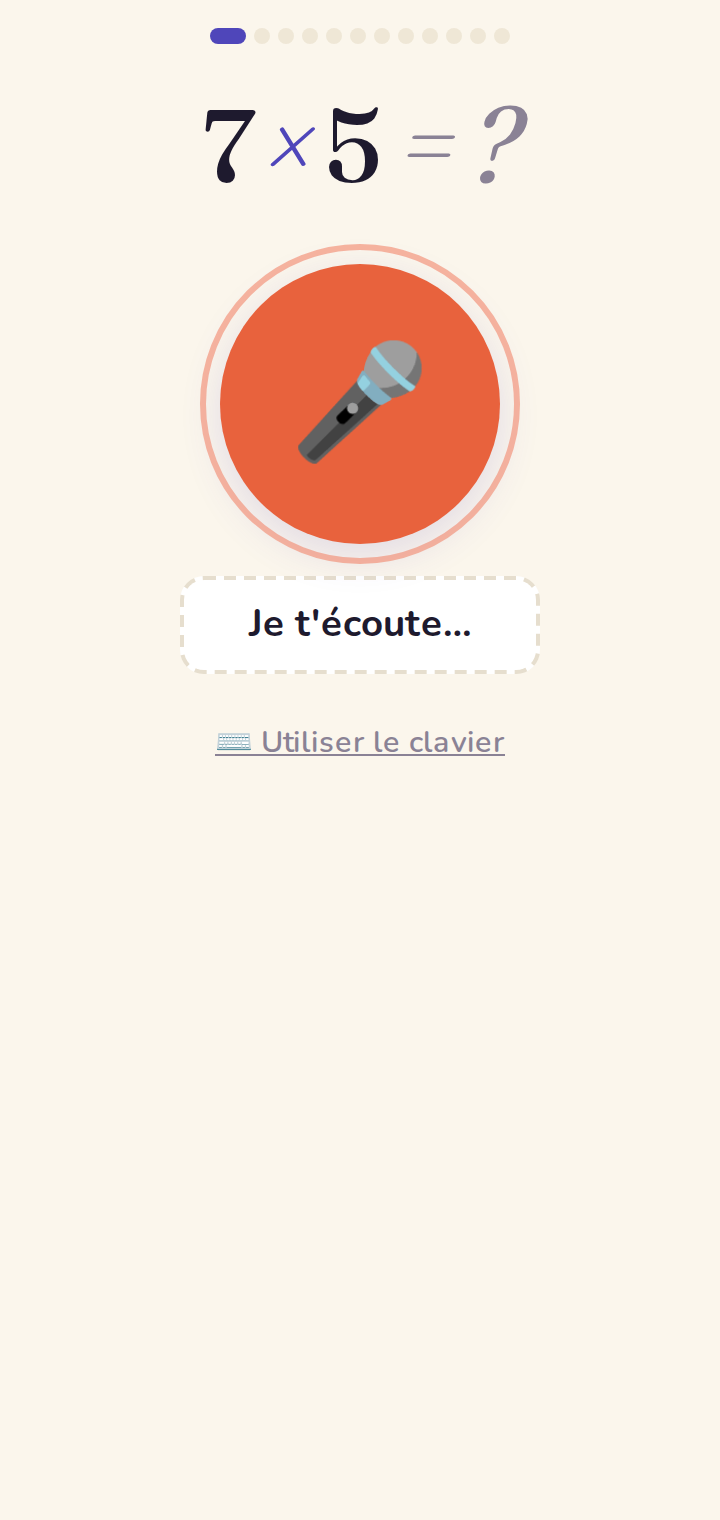
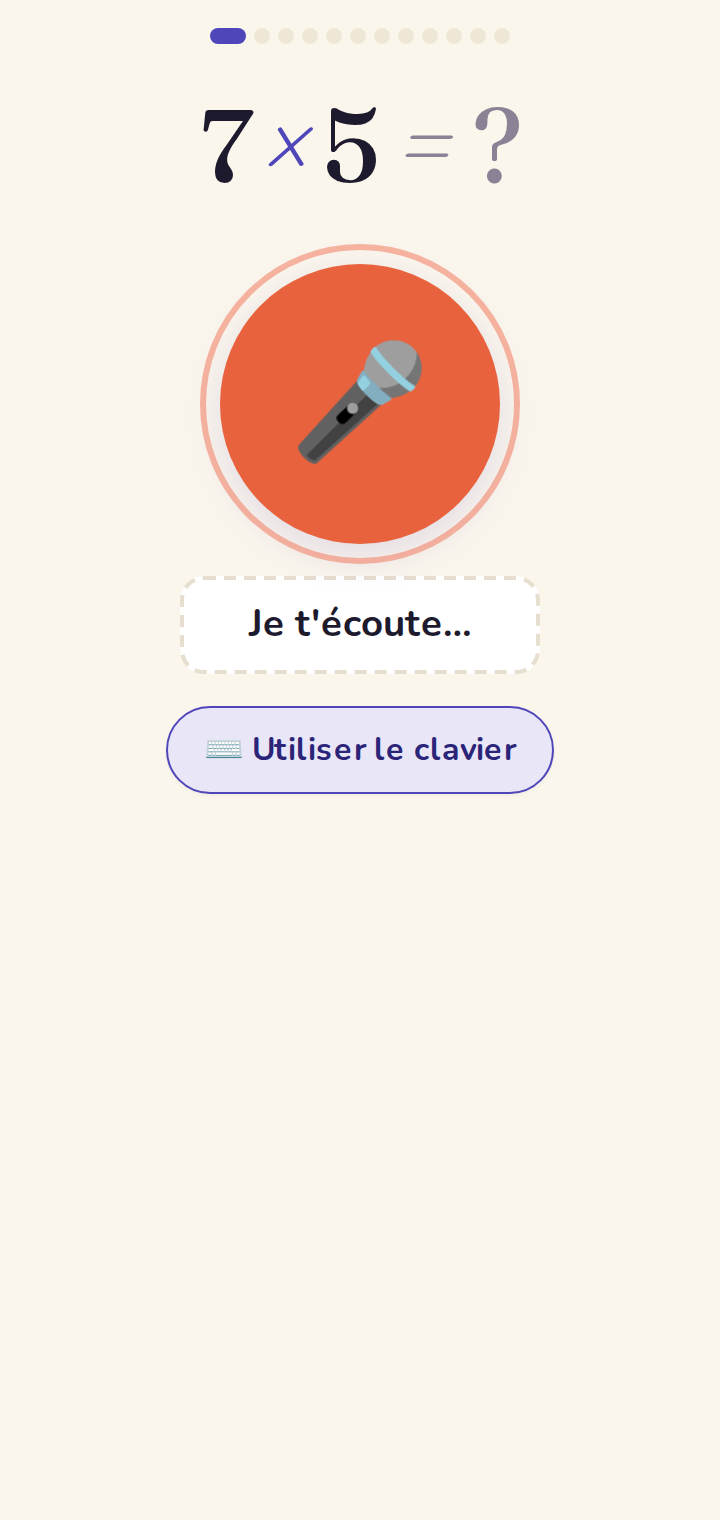
deploy: main @ fb72b231f3d565b519d4fefcdd64a0536ae2737d fb72b231f3d565b519d4fefcdd64a0536ae2737d

diff --git a/styles.css b/styles.css
@@ -3969,7 +3969,6 @@ input, select, textarea {
 
 .session-question-text .placeholder {
   color: var(--ink-muted);
-  font-style: italic;
   font-weight: 400;
   margin-left: 10px;
 }
@@ -3982,20 +3981,29 @@ input, select, textarea {
   justify-content: flex-start;
   width: 100%;
   padding-top: 4px;
-  gap: 8px;
+  gap: 28px;
 }
 
 .session-input-switch {
-  background: transparent;
-  border: none;
+  display: inline-flex;
+  align-items: center;
+  gap: 8px;
+  background: var(--indigo-soft);
+  border: 1.5px solid var(--indigo);
   font-family: var(--sans);
-  font-size: 0.95rem;
-  font-weight: 600;
-  color: var(--ink-muted);
-  padding: 8px 14px;
-  border-radius: 10px;
+  font-size: 1rem;
+  font-weight: 700;
+  color: var(--indigo-ink);
+  padding: 10px 18px;
+  border-radius: 999px;
   cursor: pointer;
-  text-decoration: underline;
+  box-shadow: var(--shadow-sm);
+  -webkit-tap-highlight-color: transparent;
+  transition: transform 0.12s ease, background 0.12s ease;
+}
+
+.session-input-switch:active:not(:disabled) {
+  transform: translateY(1px);
 }
 
 .session-input-switch:disabled {

diff --git a/guide/index.html b/guide/index.html
@@ -401,12 +401,12 @@
           </figure>
 
           <figure class="shot">
-            <img src="screenshots/07-session-question.png?v=a8e9f204" alt="Question standard et pavé numérique." width="360" height="760" loading="lazy" />
+            <img src="screenshots/07-session-question.png?v=1d9eb750" alt="Question standard et pavé numérique." width="360" height="760" loading="lazy" />
             <figcaption>Question standard et pavé numérique.</figcaption>
           </figure>
 
           <figure class="shot">
-            <img src="screenshots/07b-session-voice.png?v=a0335cfe" alt="Mode micro — l'enfant énonce sa réponse à voix haute. Bascule possible à tout moment." width="360" height="760" loading="lazy" />
+            <img src="screenshots/07b-session-voice.png?v=e6ab4787" alt="Mode micro — l'enfant énonce sa réponse à voix haute. Bascule possible à tout moment." width="360" height="760" loading="lazy" />
             <figcaption>Mode micro — l'enfant énonce sa réponse à voix haute. Bascule possible à tout moment.</figcaption>
           </figure>
 
@@ -504,7 +504,7 @@
     <a href="https://github.com/isc/multiplix">code source</a>
   </p>
   <p>
-    Guide généré automatiquement le 2026-05-10.
+    Guide généré automatiquement le 2026-05-13.
   </p>
 </footer>
 </body>

diff --git a/src/lib/feedback.js b/src/lib/feedback.js
@@ -1,3 +1,3 @@
-const r="https://cseyzitvqvyuabmenntb.supabase.co",a="sb_publishable_WKCgKA1DIyj8o1eG4_Pciw_ZoujAiqj",c=!!(r&&a);function m(t){const e={app_version:"20260510195834",user_agent:navigator.userAgent,locale:navigator.language,viewport:{w:window.innerWidth,h:window.innerHeight}};if(t){const n=t.facts.filter(i=>i.box>=4).length,s=new Date(t.startDate).getTime(),o=Math.max(0,Math.floor((Date.now()-s)/864e5));e.stats={total_sessions:t.totalSessions,facts_mastered:n,facts_total:t.facts.length,current_streak:t.currentStreak,days_since_start:o}}return e}async function l(t){if(!c)throw new Error("Feedback d\xE9sactiv\xE9 (configuration manquante)");const e=await fetch(`${r}/rest/v1/feedback`,{method:"POST",headers:{apikey:a,Authorization:`Bearer ${a}`,"Content-Type":"application/json",Prefer:"return=minimal"},body:JSON.stringify({message:t.message,email:t.email&&t.email.trim()?t.email.trim():null,context:t.context})});if(!e.ok){const n=await e.text().catch(()=>"");throw new Error(n||`HTTP ${e.status}`)}}export{m as buildContext,c as feedbackEnabled,l as submitFeedback};
+const r="https://cseyzitvqvyuabmenntb.supabase.co",a="sb_publishable_WKCgKA1DIyj8o1eG4_Pciw_ZoujAiqj",c=!!(r&&a);function m(t){const e={app_version:"20260513185809",user_agent:navigator.userAgent,locale:navigator.language,viewport:{w:window.innerWidth,h:window.innerHeight}};if(t){const n=t.facts.filter(i=>i.box>=4).length,s=new Date(t.startDate).getTime(),o=Math.max(0,Math.floor((Date.now()-s)/864e5));e.stats={total_sessions:t.totalSessions,facts_mastered:n,facts_total:t.facts.length,current_streak:t.currentStreak,days_since_start:o}}return e}async function l(t){if(!c)throw new Error("Feedback d\xE9sactiv\xE9 (configuration manquante)");const e=await fetch(`${r}/rest/v1/feedback`,{method:"POST",headers:{apikey:a,Authorization:`Bearer ${a}`,"Content-Type":"application/json",Prefer:"return=minimal"},body:JSON.stringify({message:t.message,email:t.email&&t.email.trim()?t.email.trim():null,context:t.context})});if(!e.ok){const n=await e.text().catch(()=>"");throw new Error(n||`HTTP ${e.status}`)}}export{m as buildContext,c as feedbackEnabled,l as submitFeedback};
 
 //# sourceMappingURL=feedback.js.map

diff --git a/src/screens/ParentDashboard.js b/src/screens/ParentDashboard.js
@@ -1,3 +1,3 @@
-import{jsx as e,jsxs as a}from"preact/jsx-runtime";import{useState as u,useMemo as h,Fragment as B}from"react";import{getFactKey as q}from"../lib/facts.js";import{getActiveStreak as V}from"../lib/streak.js";import{todayISO as z}from"../lib/utils.js";import G from"../components/ProgressGrid.js";import J from"../components/BackChevron.js";import O from"../components/FeedbackModal.js";const T=[0,25,50,75,100];function j({profile:n,onBack:F,onExport:L,onImport:P,onShowPrivacy:$,onShowChangelog:w}){const[b,N]=u(!1),[p,g]=u(""),[H,f]=u(!1),{boxCounts:I,maxBoxCount:E,hardFacts:x}=h(()=>{const t=[0,0,0,0,0,0];for(const s of n.facts)s.introduced?t[s.box]++:t[0]++;const r=n.facts.filter(s=>s.introduced).map(s=>({...s,errorCount:s.history.filter(c=>!c.correct).length})).sort((s,c)=>c.errorCount-s.errorCount||s.box-c.box).slice(0,5).filter(s=>s.errorCount>0);return{boxCounts:t,maxBoxCount:Math.max(...t,1),hardFacts:r}},[n.facts]),A=h(()=>[...n.sessionHistory].reverse().slice(0,10),[n.sessionHistory]),o=h(()=>{const t=n.sessionHistory.slice(-20);if(t.length<2)return null;const r=t.map(i=>({date:new Date(i.date).toLocaleDateString("fr-FR",{day:"numeric",month:"short"}),pct:Math.round(i.correctCount/i.questionsCount*100)})),s={top:20,right:15,bottom:40,left:38},c=400,y=200,C=c-s.left-s.right,l=y-s.top-s.bottom,m=r.length,D=C/(m-1),d=r.map((i,v)=>({x:s.left+v*D,y:s.top+l-i.pct/100*l,pct:i.pct,date:i.date})),k=d.map((i,v)=>`${v===0?"M":"L"}${i.x},${i.y}`).join(" "),W=`${k} L${d[d.length-1].x},${s.top+l} L${d[0].x},${s.top+l} Z`,S=6,U=m<=S?1:Math.ceil(m/S);return{padding:s,svgW:c,svgH:y,chartW:C,chartH:l,pts:d,linePath:k,areaPath:W,labelInterval:U}},[n.sessionHistory]),M=["var(--box-gray)","var(--box-red)","var(--box-orange)","var(--box-yellow)","var(--box-lightgreen)","var(--box-green)"],R=["N/A","B1","B2","B3","B4","B5"],_=()=>{p.trim()&&(P(p.trim()),N(!1),g(""))};return a("div",{className:"parent-dashboard",children:[a("div",{className:"parent-header",children:[e("button",{className:"parent-back-btn",onClick:F,"aria-label":"Retour",children:e(J,{})}),a("div",{className:"parent-header-titles",children:[e("div",{className:"parent-eyebrow",children:"Espace parent"}),a("div",{className:"parent-title",children:[n.name," \xB7 ","profil"]})]})]}),a("div",{className:"parent-section",children:[e("h3",{children:"Vue d'ensemble"}),a("div",{className:"parent-stats-grid",children:[a("div",{className:"parent-stat-card",children:[e("div",{className:"parent-stat-value",children:n.totalSessions}),e("div",{className:"parent-stat-label",children:"S\xE9ances"})]}),a("div",{className:"parent-stat-card",children:[e("div",{className:"parent-stat-value",children:V(n,z())}),e("div",{className:"parent-stat-label",children:"S\xE9rie actuelle"})]}),a("div",{className:"parent-stat-card",children:[e("div",{className:"parent-stat-value",children:n.longestStreak}),e("div",{className:"parent-stat-label",children:"Meilleure s\xE9rie"})]}),a("div",{className:"parent-stat-card",children:[a("div",{className:"parent-stat-value",children:[n.facts.filter(t=>t.box>=4).length,"/",n.facts.length]}),e("div",{className:"parent-stat-label",children:"Faits ma\xEEtris\xE9s"})]})]})]}),a("div",{className:"parent-section",children:[e("h3",{children:"R\xE9partition par bo\xEEte"}),a("p",{className:"parent-section-subtitle",children:["Combien de multiplications dans chaque bo\xEEte de r\xE9vision (B1 = \xE0 r\xE9viser souvent, B5 = bien ancr\xE9es).",e("a",{className:"parent-section-help",href:"/multiplix/guide/#principes",target:"_blank",rel:"noopener noreferrer","aria-label":"En savoir plus sur le syst\xE8me de Leitner",children:"?"})]}),e("div",{className:"parent-histogram",children:I.map((t,r)=>a("div",{className:"parent-histogram-bar",children:[e("div",{className:"parent-histogram-count",children:t}),e("div",{className:"parent-histogram-fill",style:{height:`${t/E*100}%`,background:M[r]}}),e("div",{className:"parent-histogram-label",children:R[r]})]},r))})]}),a("div",{className:"parent-section",children:[e("h3",{children:"Grille Leitner"}),a("p",{className:"parent-section-subtitle",children:["Une case par multiplication, color\xE9e selon sa bo\xEEte. Le rouge signale les faits r\xE9cents ou en difficult\xE9, le vert ceux bien ancr\xE9s.",e("a",{className:"parent-section-help",href:"/multiplix/guide/#principes",target:"_blank",rel:"noopener noreferrer","aria-label":"En savoir plus sur le syst\xE8me de Leitner",children:"?"})]}),e(G,{facts:n.facts})]}),o&&a("div",{className:"parent-section",children:[e("h3",{children:"\xC9volution"}),e("div",{className:"parent-evolution-chart",children:a("svg",{viewBox:`0 0 ${o.svgW} ${o.svgH}`,preserveAspectRatio:"xMidYMid meet",children:[T.map(t=>{const r=o.padding.top+o.chartH-t/100*o.chartH;return a(B,{children:[e("line",{x1:o.padding.left,y1:r,x2:o.padding.left+o.chartW,y2:r,stroke:"var(--border)",strokeWidth:"1"}),a("text",{x:o.padding.left-6,y:r+1,textAnchor:"end",dominantBaseline:"middle",fontSize:"10",fill:"var(--text-muted)",fontFamily:"Nunito, sans-serif",children:[t,"%"]})]},`y-${t}`)}),e("path",{d:o.areaPath,fill:"var(--primary)",opacity:"0.1"}),e("path",{d:o.linePath,fill:"none",stroke:"var(--primary)",strokeWidth:"2.5",strokeLinecap:"round",strokeLinejoin:"round"}),o.pts.map((t,r)=>a(B,{children:[e("circle",{cx:t.x,cy:t.y,r:"4",fill:"var(--surface)",stroke:"var(--primary)",strokeWidth:"2"}),r%o.labelInterval===0&&e("text",{x:t.x,y:o.padding.top+o.chartH+16,textAnchor:"middle",fontSize:"9",fill:"var(--text-light)",fontFamily:"Nunito, sans-serif",children:t.date})]},r))]})})]}),x.length>0&&a("div",{className:"parent-section",children:[e("h3",{children:"Faits les plus difficiles"}),e("div",{className:"parent-hard-facts",children:x.map(t=>a("div",{className:"parent-hard-fact",children:[a("span",{className:"parent-hard-fact-name",children:[t.a," ","\xD7"," ",t.b," = ",t.product]}),a("span",{className:"parent-hard-fact-errors",children:[t.errorCount," erreur",t.errorCount>1?"s":""," | Bo\xEEte"," ",t.box]})]},q(t.a,t.b)))})]}),n.sessionHistory.length>0&&a("div",{className:"parent-section",children:[e("h3",{children:"Historique des s\xE9ances"}),e("div",{className:"parent-session-history",children:A.map(t=>{const r=new Date(t.date).toLocaleDateString("fr-FR",{weekday:"short",day:"numeric",month:"long"}),s=(t.averageTimeMs/1e3).toFixed(1);return a("div",{className:"parent-session-row",children:[e("span",{className:"parent-session-date",children:r}),a("span",{className:"parent-session-score",children:[t.correctCount,"/",t.questionsCount]}),a("span",{className:"parent-session-time",children:[s,"s"]})]},t.date)})})]}),a("div",{className:"parent-section",children:[e("h3",{children:"Sauvegarde"}),a("div",{className:"parent-actions",children:[e("button",{className:"parent-action-btn",onClick:L,children:"Exporter"}),e("button",{className:"parent-action-btn",onClick:()=>N(!b),children:"Importer"})]})]}),a("div",{className:"parent-section",children:[e("h3",{children:"Aide & retours"}),a("div",{className:"parent-actions",children:[e("a",{className:"parent-action-btn",href:"/multiplix/guide/",target:"_blank",rel:"noopener noreferrer",children:"Guide utilisateur"}),e("button",{className:"parent-action-btn",onClick:()=>f(!0),children:"Envoyer un avis"})]})]}),a("div",{className:"parent-section",children:[e("h3",{children:"\xC0 propos"}),a("div",{className:"parent-actions",children:[e("button",{className:"parent-action-btn",onClick:w,children:"Nouveaut\xE9s"}),e("button",{className:"parent-action-btn",onClick:$,children:"Confidentialit\xE9"})]})]}),b&&a("div",{className:"parent-import-area",children:[e("textarea",{className:"parent-import-textarea",placeholder:"Collez le JSON ici...",value:p,onChange:t=>g(t.target.value)}),e("button",{className:"parent-import-confirm",onClick:_,disabled:!p.trim(),children:"Confirmer l'import"})]}),H&&e(O,{profile:n,onClose:()=>f(!1)}),a("div",{className:"parent-version","aria-label":"Version de l'app",children:["v","20260510195834"]})]})}export{j as default};
+import{jsx as e,jsxs as a}from"preact/jsx-runtime";import{useState as u,useMemo as h,Fragment as B}from"react";import{getFactKey as q}from"../lib/facts.js";import{getActiveStreak as V}from"../lib/streak.js";import{todayISO as z}from"../lib/utils.js";import G from"../components/ProgressGrid.js";import J from"../components/BackChevron.js";import O from"../components/FeedbackModal.js";const T=[0,25,50,75,100];function j({profile:n,onBack:F,onExport:L,onImport:P,onShowPrivacy:$,onShowChangelog:w}){const[b,N]=u(!1),[p,g]=u(""),[H,f]=u(!1),{boxCounts:I,maxBoxCount:E,hardFacts:x}=h(()=>{const t=[0,0,0,0,0,0];for(const s of n.facts)s.introduced?t[s.box]++:t[0]++;const r=n.facts.filter(s=>s.introduced).map(s=>({...s,errorCount:s.history.filter(c=>!c.correct).length})).sort((s,c)=>c.errorCount-s.errorCount||s.box-c.box).slice(0,5).filter(s=>s.errorCount>0);return{boxCounts:t,maxBoxCount:Math.max(...t,1),hardFacts:r}},[n.facts]),A=h(()=>[...n.sessionHistory].reverse().slice(0,10),[n.sessionHistory]),o=h(()=>{const t=n.sessionHistory.slice(-20);if(t.length<2)return null;const r=t.map(i=>({date:new Date(i.date).toLocaleDateString("fr-FR",{day:"numeric",month:"short"}),pct:Math.round(i.correctCount/i.questionsCount*100)})),s={top:20,right:15,bottom:40,left:38},c=400,y=200,C=c-s.left-s.right,l=y-s.top-s.bottom,m=r.length,D=C/(m-1),d=r.map((i,v)=>({x:s.left+v*D,y:s.top+l-i.pct/100*l,pct:i.pct,date:i.date})),k=d.map((i,v)=>`${v===0?"M":"L"}${i.x},${i.y}`).join(" "),W=`${k} L${d[d.length-1].x},${s.top+l} L${d[0].x},${s.top+l} Z`,S=6,U=m<=S?1:Math.ceil(m/S);return{padding:s,svgW:c,svgH:y,chartW:C,chartH:l,pts:d,linePath:k,areaPath:W,labelInterval:U}},[n.sessionHistory]),M=["var(--box-gray)","var(--box-red)","var(--box-orange)","var(--box-yellow)","var(--box-lightgreen)","var(--box-green)"],R=["N/A","B1","B2","B3","B4","B5"],_=()=>{p.trim()&&(P(p.trim()),N(!1),g(""))};return a("div",{className:"parent-dashboard",children:[a("div",{className:"parent-header",children:[e("button",{className:"parent-back-btn",onClick:F,"aria-label":"Retour",children:e(J,{})}),a("div",{className:"parent-header-titles",children:[e("div",{className:"parent-eyebrow",children:"Espace parent"}),a("div",{className:"parent-title",children:[n.name," \xB7 ","profil"]})]})]}),a("div",{className:"parent-section",children:[e("h3",{children:"Vue d'ensemble"}),a("div",{className:"parent-stats-grid",children:[a("div",{className:"parent-stat-card",children:[e("div",{className:"parent-stat-value",children:n.totalSessions}),e("div",{className:"parent-stat-label",children:"S\xE9ances"})]}),a("div",{className:"parent-stat-card",children:[e("div",{className:"parent-stat-value",children:V(n,z())}),e("div",{className:"parent-stat-label",children:"S\xE9rie actuelle"})]}),a("div",{className:"parent-stat-card",children:[e("div",{className:"parent-stat-value",children:n.longestStreak}),e("div",{className:"parent-stat-label",children:"Meilleure s\xE9rie"})]}),a("div",{className:"parent-stat-card",children:[a("div",{className:"parent-stat-value",children:[n.facts.filter(t=>t.box>=4).length,"/",n.facts.length]}),e("div",{className:"parent-stat-label",children:"Faits ma\xEEtris\xE9s"})]})]})]}),a("div",{className:"parent-section",children:[e("h3",{children:"R\xE9partition par bo\xEEte"}),a("p",{className:"parent-section-subtitle",children:["Combien de multiplications dans chaque bo\xEEte de r\xE9vision (B1 = \xE0 r\xE9viser souvent, B5 = bien ancr\xE9es).",e("a",{className:"parent-section-help",href:"/multiplix/guide/#principes",target:"_blank",rel:"noopener noreferrer","aria-label":"En savoir plus sur le syst\xE8me de Leitner",children:"?"})]}),e("div",{className:"parent-histogram",children:I.map((t,r)=>a("div",{className:"parent-histogram-bar",children:[e("div",{className:"parent-histogram-count",children:t}),e("div",{className:"parent-histogram-fill",style:{height:`${t/E*100}%`,background:M[r]}}),e("div",{className:"parent-histogram-label",children:R[r]})]},r))})]}),a("div",{className:"parent-section",children:[e("h3",{children:"Grille Leitner"}),a("p",{className:"parent-section-subtitle",children:["Une case par multiplication, color\xE9e selon sa bo\xEEte. Le rouge signale les faits r\xE9cents ou en difficult\xE9, le vert ceux bien ancr\xE9s.",e("a",{className:"parent-section-help",href:"/multiplix/guide/#principes",target:"_blank",rel:"noopener noreferrer","aria-label":"En savoir plus sur le syst\xE8me de Leitner",children:"?"})]}),e(G,{facts:n.facts})]}),o&&a("div",{className:"parent-section",children:[e("h3",{children:"\xC9volution"}),e("div",{className:"parent-evolution-chart",children:a("svg",{viewBox:`0 0 ${o.svgW} ${o.svgH}`,preserveAspectRatio:"xMidYMid meet",children:[T.map(t=>{const r=o.padding.top+o.chartH-t/100*o.chartH;return a(B,{children:[e("line",{x1:o.padding.left,y1:r,x2:o.padding.left+o.chartW,y2:r,stroke:"var(--border)",strokeWidth:"1"}),a("text",{x:o.padding.left-6,y:r+1,textAnchor:"end",dominantBaseline:"middle",fontSize:"10",fill:"var(--text-muted)",fontFamily:"Nunito, sans-serif",children:[t,"%"]})]},`y-${t}`)}),e("path",{d:o.areaPath,fill:"var(--primary)",opacity:"0.1"}),e("path",{d:o.linePath,fill:"none",stroke:"var(--primary)",strokeWidth:"2.5",strokeLinecap:"round",strokeLinejoin:"round"}),o.pts.map((t,r)=>a(B,{children:[e("circle",{cx:t.x,cy:t.y,r:"4",fill:"var(--surface)",stroke:"var(--primary)",strokeWidth:"2"}),r%o.labelInterval===0&&e("text",{x:t.x,y:o.padding.top+o.chartH+16,textAnchor:"middle",fontSize:"9",fill:"var(--text-light)",fontFamily:"Nunito, sans-serif",children:t.date})]},r))]})})]}),x.length>0&&a("div",{className:"parent-section",children:[e("h3",{children:"Faits les plus difficiles"}),e("div",{className:"parent-hard-facts",children:x.map(t=>a("div",{className:"parent-hard-fact",children:[a("span",{className:"parent-hard-fact-name",children:[t.a," ","\xD7"," ",t.b," = ",t.product]}),a("span",{className:"parent-hard-fact-errors",children:[t.errorCount," erreur",t.errorCount>1?"s":""," | Bo\xEEte"," ",t.box]})]},q(t.a,t.b)))})]}),n.sessionHistory.length>0&&a("div",{className:"parent-section",children:[e("h3",{children:"Historique des s\xE9ances"}),e("div",{className:"parent-session-history",children:A.map(t=>{const r=new Date(t.date).toLocaleDateString("fr-FR",{weekday:"short",day:"numeric",month:"long"}),s=(t.averageTimeMs/1e3).toFixed(1);return a("div",{className:"parent-session-row",children:[e("span",{className:"parent-session-date",children:r}),a("span",{className:"parent-session-score",children:[t.correctCount,"/",t.questionsCount]}),a("span",{className:"parent-session-time",children:[s,"s"]})]},t.date)})})]}),a("div",{className:"parent-section",children:[e("h3",{children:"Sauvegarde"}),a("div",{className:"parent-actions",children:[e("button",{className:"parent-action-btn",onClick:L,children:"Exporter"}),e("button",{className:"parent-action-btn",onClick:()=>N(!b),children:"Importer"})]})]}),a("div",{className:"parent-section",children:[e("h3",{children:"Aide & retours"}),a("div",{className:"parent-actions",children:[e("a",{className:"parent-action-btn",href:"/multiplix/guide/",target:"_blank",rel:"noopener noreferrer",children:"Guide utilisateur"}),e("button",{className:"parent-action-btn",onClick:()=>f(!0),children:"Envoyer un avis"})]})]}),a("div",{className:"parent-section",children:[e("h3",{children:"\xC0 propos"}),a("div",{className:"parent-actions",children:[e("button",{className:"parent-action-btn",onClick:w,children:"Nouveaut\xE9s"}),e("button",{className:"parent-action-btn",onClick:$,children:"Confidentialit\xE9"})]})]}),b&&a("div",{className:"parent-import-area",children:[e("textarea",{className:"parent-import-textarea",placeholder:"Collez le JSON ici...",value:p,onChange:t=>g(t.target.value)}),e("button",{className:"parent-import-confirm",onClick:_,disabled:!p.trim(),children:"Confirmer l'import"})]}),H&&e(O,{profile:n,onClose:()=>f(!1)}),a("div",{className:"parent-version","aria-label":"Version de l'app",children:["v","20260513185809"]})]})}export{j as default};
 
 //# sourceMappingURL=ParentDashboard.js.map

diff --git a/sw.js b/sw.js
@@ -21,7 +21,7 @@
 // Les marqueurs de version, de base path et de liste d'assets sont
 // substitués par scripts/build.mjs.
 
-const CACHE = 'multiplix-' + "20260510195834"
+const CACHE = 'multiplix-' + "20260513185809"
 const BASE = "/multiplix/"
 const ASSETS = [
   "/multiplix/favicon.svg",